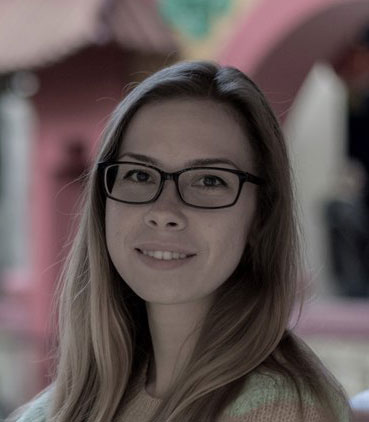
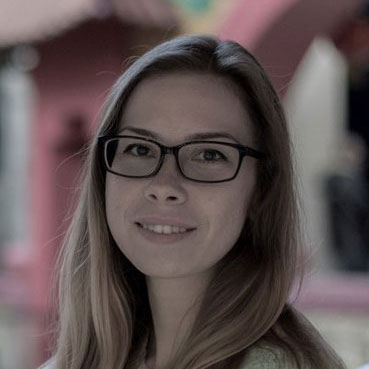
chage photo

diff --git a/css/style.css b/css/style.css
@@ -97,7 +97,7 @@ background-color: #ECF0F1;
 	padding-right: 15px;
 }
 .logo{
-	background: url("../img/foto_1.jpg") no-repeat;
+	background: url("../img/foto.jpg") no-repeat;
 	background-size: 100% 100%;
 	position: absolute;
 	bottom: -70px;
